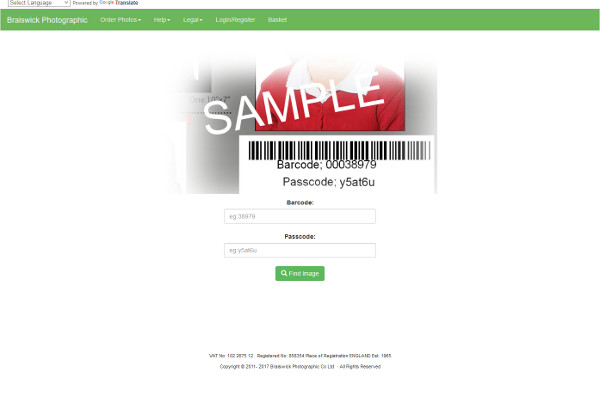
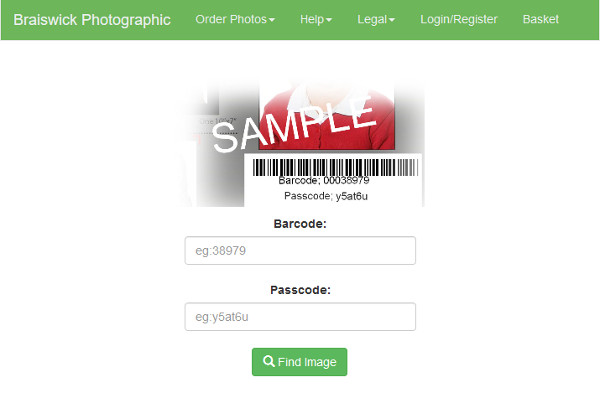
Change online image. Set min-width for contact details

diff --git a/index.html b/index.html
@@ -207,7 +207,7 @@
                                     <img src="images/about/about_5.jpg">
                                     <div class="img-flex-text">
                                         <h2>Packs</h2>
-                                        <p>We offer a vast array of individual & class group products, from vibrant gel coloured individual photographs to traditional class groups, we have <strong>a style to suit your every need</strong>. Whether you choose to help raise money for Cancer Research with our Anniversary Pack or do your bit for the environment with the Eco pack we have a pack&nbsp;for&nbsp;all.</p>
+                                        <p>We offer a vast array of individual & class group products, from vibrant gel coloured individual photographs to traditional class groups, we have <strong>a style to suit your every need</strong>. Whether you choose to help raise money for Cancer Research with our Anniversary Pack or do your bit for the environment with the Eco pack we have a pack&nbsp;for&nbsp;everyone.</p>
                                         <p>We also offer a range of leavers products from whole year groups to individual&nbsp;yearbooks.</p>
                                     </div>
                                 </div>

diff --git a/css/stylesheet.css b/css/stylesheet.css
@@ -869,7 +869,7 @@ p.footer-link:not(:first-child)::before {
 
     .contact-flex .contact-flex-text {
         order: 0;
-        /*width: 300px;*/
+        min-width: 300px;
         -ms-flex: 0 1 auto;
     }
     
